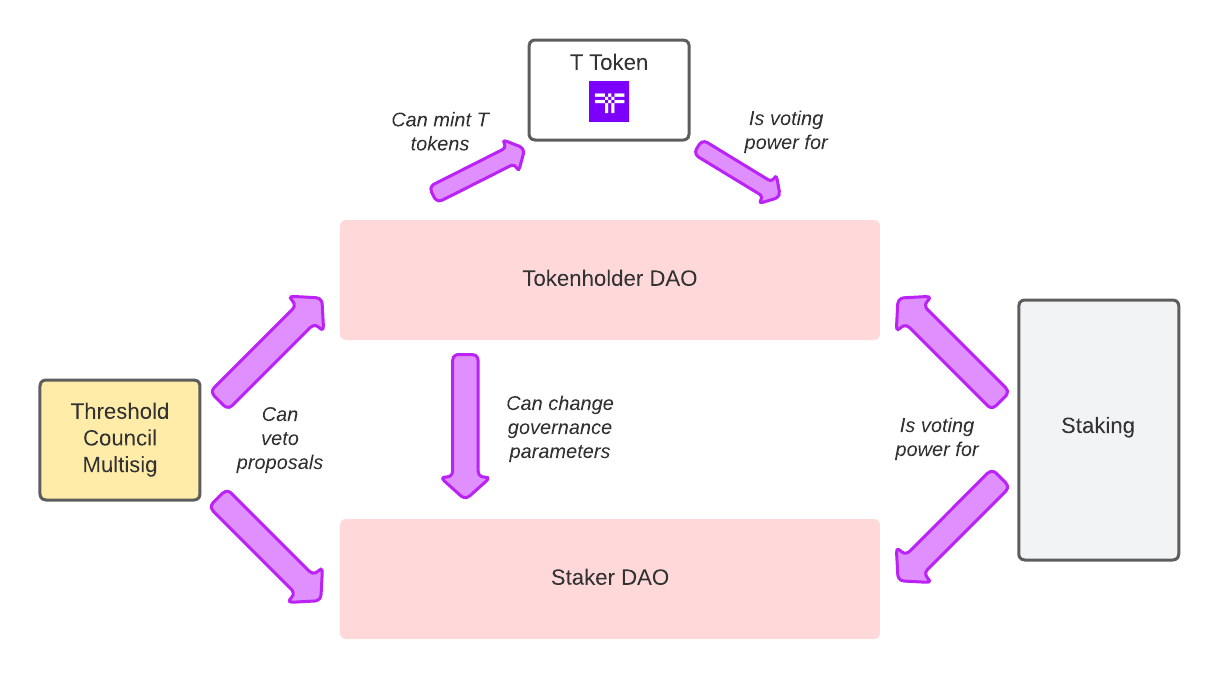
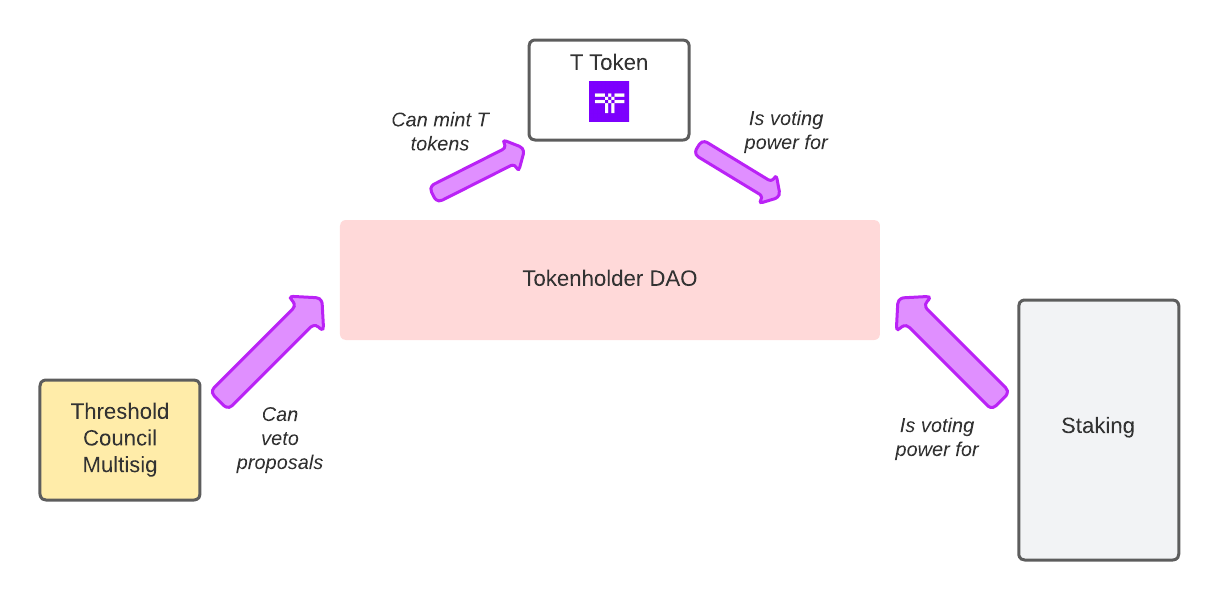
GITBOOK-152: DAO page updates

diff --git a/docs/fundamentals/dao.md b/docs/fundamentals/dao.md
@@ -1,7 +1,7 @@
 # Threshold DAO
 
-Threshold is community-driven and governed by an eponymous DAO that includes the constituencies of both the NuCypher and Keep networks. The community decided that a . The Threshold DAO has three primary bodies: **Tokenholder DAO**, **Staker DAO**, and the **Elected Council**. The goal of this three-pronged approach is to enhance representation while ensuring accountability, as each of these governance bodices will hold the other two accountable, similar to the system of checks and balances found in most constitutional governments. They will also hold separate responsibilities that are embedded in the governance structure. See [this blog post](https://blog.threshold.network/thresholds-governance-structure-and-the-upcoming-council-elections/) and [this proposal](https://forum.threshold.network/t/threshold-network-dao-proposal-v2/57) for a more extended description of the DAO structure.
+Threshold is community-driven and governed by an eponymous DAO that includes the constituencies of both the NuCypher and Keep networks. The Threshold DAO has two primary bodies: the **Tokenholder DAO** and the **Elected Council**. The goal of this two-pronged approach is to enhance representation while ensuring accountability. Each of these governance bodies will hold the other accountable, similar to the system of checks and balances found in most constitutional governments. They will also hold separate responsibilities that are embedded in the governance structure. See [this blog post](https://blog.threshold.network/thresholds-governance-structure-and-the-upcoming-council-elections/) and [this proposal](https://forum.threshold.network/t/threshold-network-dao-proposal-v2/57) for a more extended description of the DAO structure.
 
 ![](<../.gitbook/assets/Threshold DAO 4.png>)
 
-From an implementation perspective, both the Tokenholder DAO and the Staker DAO are based on Governor Bravo governance model (in particular, using OpenZeppelin Governance). The Tokenholder DAO is on Ethereum Mainnet at `0xd101f2B25bCBF992BdF55dB67c104FE7646F5447`. The Elected Council is implemented as a Gnosis Safe contract, with a 6-of-9 configuration, also deployed on Ethereum Mainnet, at `0x9F6e831c8F8939DC0C830C6e492e7cEf4f9C2F5f`. The Staker DAO is postponed until the complete functionality for staking is released.
+From an implementation perspective, the Tokenholder DAO is based on the Governor Bravo governance model (in particular, using OpenZeppelin Governance). The Tokenholder DAO is on Ethereum Mainnet at `0xd101f2B25bCBF992BdF55dB67c104FE7646F5447`. The Elected Council is implemented as a Gnosis Safe contract, with a 6-of-9 configuration, also deployed on Ethereum Mainnet, at `0x9F6e831c8F8939DC0C830C6e492e7cEf4f9C2F5f`.

diff --git a/docs/fundamentals/dao/threshold-multisigs.md b/docs/fundamentals/dao/threshold-multisigs.md
@@ -6,8 +6,8 @@ description: Compilation of current multisigs for the Threshold council and guil
 
 ## Council Multisig
 
-{% embed url="https://gnosis-safe.io/app/eth:0x9F6e831c8F8939DC0C830C6e492e7cEf4f9C2F5f/home" %}
-Council Multisig at Gnosis Safe
+{% embed url="https://app.safe.global/eth:0x9F6e831c8F8939DC0C830C6e492e7cEf4f9C2F5f/" %}
+Council Multisig on Safe
 {% endembed %}
 
 {% hint style="info" %}
@@ -20,8 +20,8 @@ The Threshold Council multisig is set to **6 of 9**.
 
 ### Treasury Guild Multisig
 
-{% embed url="https://gnosis-safe.io/app/eth:0x71E47a4429d35827e0312AA13162197C23287546/home" %}
-Treasury Guild Multisig at Gnosis Safe
+{% embed url="https://app.safe.global/eth:0x71E47a4429d35827e0312AA13162197C23287546/" %}
+Treasury Guild Multisig on Safe
 {% endembed %}
 
 {% hint style="info" %}
@@ -30,8 +30,8 @@ This multisig is set to **5 of 9** and can be changed by the guild committee if 
 
 ### Integrations Guild Multisig
 
-{% embed url="https://gnosis-safe.io/app/eth:0x2ff7aB212cD6FEaE21bAc5300465E149FB6b85a9/home" %}
-Integrations Guild Multisig at Gnosis Safe
+{% embed url="https://app.safe.global/eth:0x2ff7aB212cD6FEaE21bAc5300465E149FB6b85a9/" %}
+Integrations Guild Multisig on Safe
 {% endembed %}
 
 {% hint style="info" %}
@@ -40,8 +40,8 @@ This multisig is set to **3 of 5** and can be changed by the guild committee if 
 
 ### Marketing Guild Multisig
 
-{% embed url="https://gnosis-safe.io/app/eth:0xd55c4261145EA1752662faA0485AfBC8C431b0CA/home" %}
-Marketing Guild Multisig at Gnosis Safe
+{% embed url="https://app.safe.global/eth:0xd55c4261145EA1752662faA0485AfBC8C431b0CA/" %}
+Marketing Guild Multisig on Safe
 {% endembed %}
 
 {% hint style="info" %}

diff --git a/docs/fundamentals/threshold-dao/snapshots.md b/docs/fundamentals/threshold-dao/snapshots.md
@@ -1,2 +1,3 @@
 # ⚡ Snapshots
 
+Snapshot proposals: [https://snapshot.org/#/threshold.eth](https://snapshot.org/#/threshold.eth)
